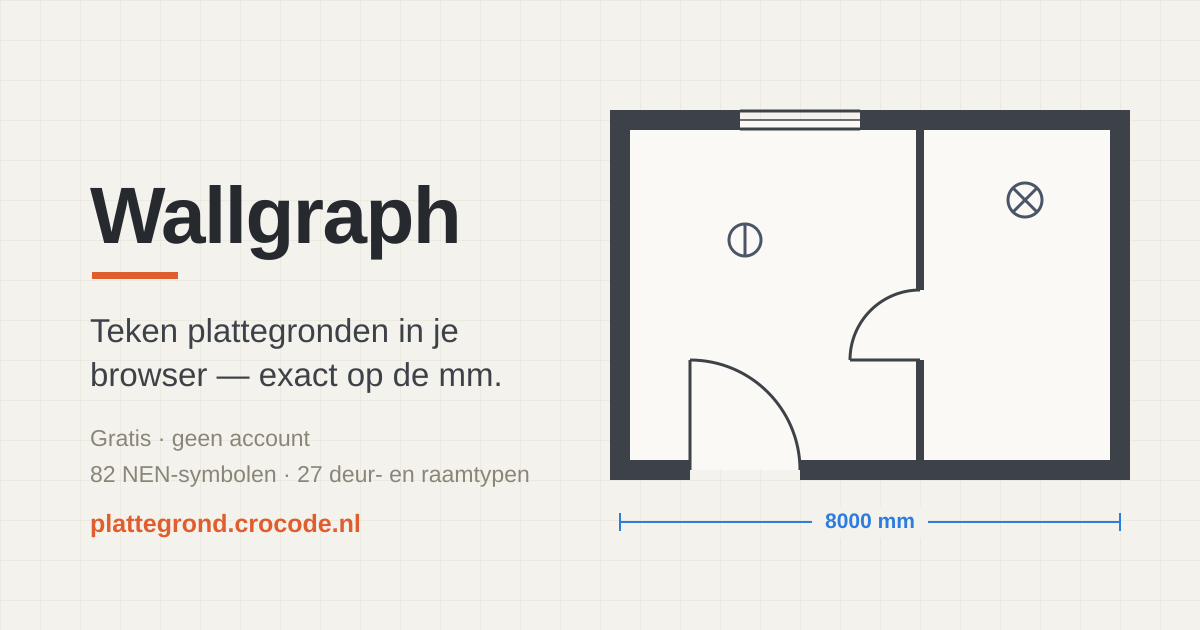
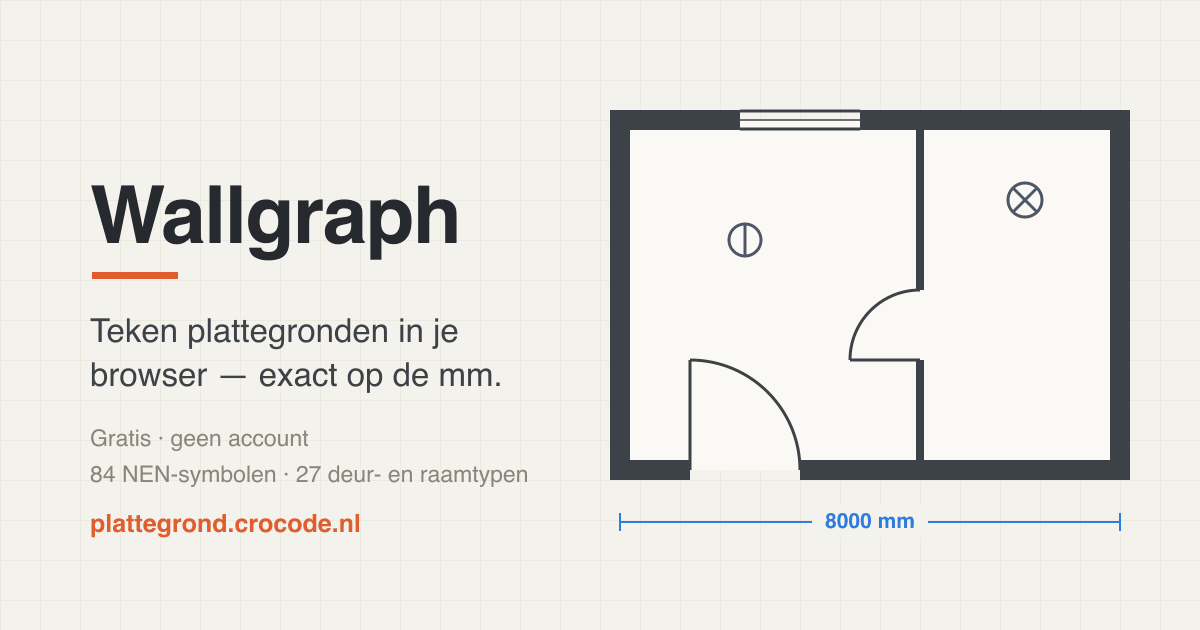
Add perilex socket and perilex connection point symbols
An induction hob is fed from a kookgroep through a perilex socket or a fixed
connection, and neither mark existed. socket-perilex draws the earthed cup and
point-perilex a filled circle, both over the conductor marking: five oblique
strokes, a protective-conductor bar and two dots. Both take electrical power
and state no mounting height, since a perilex behind an oven, in a base cabinet
or inside an island has no single ordinary one.

A wall-mounted symbol standing loose (no wallId) now rotates like a
free-standing one (canRotateSymbol()), which is how a perilex is placed and
turned inside a kookeiland. The social card is regenerated for the symbol count.

Closes #83

diff --git a/src/render/symbols/electrical.ts b/src/render/symbols/electrical.ts
@@ -1,4 +1,4 @@
-import { SymbolDef, withCtx } from "./defs";
+import { SymbolDef, dot, withCtx } from "./defs";
 
 // ---------------------------------------------------------------------------
 // Electrical symbols (Dutch NEN 5152-style installation drawing symbols),
@@ -57,6 +57,71 @@ const socketDouble = socket("socket-double", "Double socket", 2, false);
 const socketDoubleEarthed = socket("socket-double-earthed", "Double socket (earthed)", 2, true);
 const socketTriple = socket("socket-triple", "Triple socket", 3, false);
 const socketTripleEarthed = socket("socket-triple-earthed", "Triple socket (earthed)", 3, true);
+
+// Perilex: a 5-pin (L1, L2, L3, N, PE) connection for a kookgroep. The stem
+// carries the socket cup, or a filled circle for a fixed connection point,
+// and below it the conductor marking: five oblique strokes crossing the stem,
+// a bar for the protective conductor meeting the first stroke, and a dot on
+// the second and fourth. Symbol space runs from the wall (y = 0) into the room.
+const PERILEX_APEX = 440;      // stem end; cup apex or connection circle base
+const PERILEX_STROKES = 5;
+const PERILEX_STEP = 60;       // spacing of the strokes along the stem
+const PERILEX_HALF_X = 70;     // stroke half-width across the stem
+const PERILEX_HALF_Y = 30;     // stroke half-rise; the +x end sits nearer the cup
+const PERILEX_DOT_R = 18;
+const PERILEX_POINT_R = 70;
+
+function perilexMarks(ctx: CanvasRenderingContext2D): void {
+  const yAt = (i: number) => PERILEX_APEX - PERILEX_STEP * (i + 1);
+  for (let i = 0; i < PERILEX_STROKES; i++) {
+    ctx.moveTo(PERILEX_HALF_X, yAt(i) + PERILEX_HALF_Y);
+    ctx.lineTo(-PERILEX_HALF_X, yAt(i) - PERILEX_HALF_Y);
+  }
+  // Protective-conductor bar, parallel to the stem, ending on the first stroke.
+  ctx.moveTo(PERILEX_HALF_X, PERILEX_APEX);
+  ctx.lineTo(PERILEX_HALF_X, yAt(1));
+  ctx.stroke();
+  for (const i of [1, 3]) dot(ctx, PERILEX_HALF_X, yAt(i) + PERILEX_HALF_Y, PERILEX_DOT_R);
+}
+
+const socketPerilex: SymbolDef = {
+  type: "socket-perilex",
+  label: "Perilex socket",
+  category: "electrical",
+  wallMounted: true,
+  width: socketWidth(true),
+  depth: PERILEX_APEX + 2 * CUP_R,
+  ports: [{ key: "electrical:power", required: true }],
+  draw(ctx) {
+    withCtx(ctx, () => {
+      ctx.moveTo(0, 0);
+      ctx.lineTo(0, PERILEX_APEX);
+      ctx.moveTo(CUP_R, PERILEX_APEX + CUP_R);
+      ctx.arc(0, PERILEX_APEX + CUP_R, CUP_R, 0, Math.PI, true);
+      ctx.moveTo(-EARTH_HALF, PERILEX_APEX);
+      ctx.lineTo(EARTH_HALF, PERILEX_APEX);
+      perilexMarks(ctx);
+    });
+  },
+};
+
+const pointPerilex: SymbolDef = {
+  type: "point-perilex",
+  label: "Perilex connection point",
+  category: "electrical",
+  wallMounted: true,
+  width: 2 * (PERILEX_HALF_X + PERILEX_DOT_R) + 20,
+  depth: PERILEX_APEX + 2 * PERILEX_POINT_R,
+  ports: [{ key: "electrical:power", required: true }],
+  draw(ctx) {
+    withCtx(ctx, () => {
+      ctx.moveTo(0, 0);
+      ctx.lineTo(0, PERILEX_APEX);
+      perilexMarks(ctx);
+      dot(ctx, 0, PERILEX_APEX + PERILEX_POINT_R, PERILEX_POINT_R);
+    });
+  },
+};
 
 const socketShaver: SymbolDef = {
   type: "socket-shaver",
@@ -696,6 +761,8 @@ export const SYMBOLS_ELECTRICAL: SymbolDef[] = [
   socketDoubleEarthed,
   socketTriple,
   socketTripleEarthed,
+  socketPerilex,
+  pointPerilex,
   socketShaver,
   socketFloor,
   switchSingle,

diff --git a/tests/perilex.test.ts b/tests/perilex.test.ts
@@ -1,0 +1,31 @@
+// Perilex marks and the rotation rule for a wall-mounted symbol standing loose.
+import { getSymbol } from "../src/render/symbols";
+import { canRotateSymbol } from "../src/core/placed";
+import { defaultMountHeight } from "../src/core/mount";
+import { emptyDoc } from "../src/model/doc";
+import { resources } from "../src/i18n";
+
+let failures = 0;
+function check(name: string, cond: boolean, detail = ""): void {
+  if (!cond) { failures++; console.error(`FAIL ${name} ${detail}`); }
+  else console.log(`ok   ${name}`);
+}
+
+const names = (lang: "nl" | "en") => resources[lang].translation.symbol as Record<string, string>;
+
+for (const type of ["socket-perilex", "point-perilex"]) {
+  const def = getSymbol(type);
+  check(`${type} is registered`, !!def);
+  if (!def) continue;
+  check(`${type} is a wall-mounted electrical power device`,
+    def.wallMounted && def.category === "electrical" &&
+    def.ports?.some(p => p.key === "electrical:power" && p.required) === true);
+  check(`${type} states no mounting height`,
+    def.mountHeight === undefined && defaultMountHeight(emptyDoc().floors[0]!, type) === undefined);
+  check(`${type} has nl and en names`, !!names("nl")[type] && names("en")[type] === def.label);
+}
+
+check("a loose wall-mounted symbol rotates", canRotateSymbol({}));
+check("a wall-snapped symbol does not", !canRotateSymbol({ wallId: "w1" }));
+
+if (failures) { console.error(`${failures} failure(s)`); process.exit(1); }

diff --git a/src/input/tools.ts b/src/input/tools.ts
@@ -70,7 +70,7 @@ import { RESIZE_HANDLES, handleLocalPoint, resizeRect, type ResizeHandle } from 
 import { structureHit, structureCorners, columnBox, spanTurned } from "../core/structure";
 import { drawStructureGhost } from "../render/structure";
 import { furnishingHit, furnishingBox, furnishingCorners } from "../core/furnishing";
-import { turnAbout, worldPoint, localPoint } from "../core/placed";
+import { turnAbout, worldPoint, localPoint, canRotateSymbol } from "../core/placed";
 import { drawFurnishingGhost } from "../render/furnishing";
 import { planBounds, polyBounds, Bounds } from "../core/bounds";
 import { Room, roomAnchor, orphanedRoomNames } from "../core/rooms";
@@ -3983,7 +3983,7 @@ export class Tools {
     if (sel?.kind !== "symbol") return;
     this.store.mutate(doc => {
       const s = this.store.floorOf(doc).symbols.find(x => x.id === sel.id);
-      if (s && !getSymbol(s.type)?.wallMounted) s.rotation += Math.PI / 4;
+      if (s && canRotateSymbol(s)) s.rotation += Math.PI / 4;
     });
   }
 

diff --git a/src/i18n.ts b/src/i18n.ts
@@ -1367,6 +1367,8 @@ export const resources = {
         "socket-double-earthed": "Wandcontactdoos 2-voudig met randaarde",
         "socket-triple": "Wandcontactdoos 3-voudig",
         "socket-triple-earthed": "Wandcontactdoos 3-voudig met randaarde",
+        "socket-perilex": "Wandcontactdoos perilex",
+        "point-perilex": "Aansluitpunt perilex",
         "socket-shaver": "Wandcontactdoos voor scheerapparaat",
         "socket-floor": "Vloercontactdoos",
         "switch-single": "Enkelpolige schakelaar",
@@ -2965,6 +2967,8 @@ export const resources = {
         "socket-double-earthed": "Double socket (earthed)",
         "socket-triple": "Triple socket",
         "socket-triple-earthed": "Triple socket (earthed)",
+        "socket-perilex": "Perilex socket",
+        "point-perilex": "Perilex connection point",
         "socket-shaver": "Shaver socket",
         "socket-floor": "Floor socket",
         "switch-single": "Switch",

diff --git a/src/core/placed.ts b/src/core/placed.ts
@@ -83,3 +83,9 @@ export function symbolFootprintCorners(def: SymbolFootprintDef, p: Placed): Vec[
     worldPoint(p, v(box.x0, box.y1)),
   ];
 }
+
+/** A symbol turns unless it is snapped to a wall: a wall-mounted symbol standing
+ *  loose (an island's socket) rotates like a free-standing one. */
+export function canRotateSymbol(s: { wallId?: string }): boolean {
+  return s.wallId === undefined;
+}
